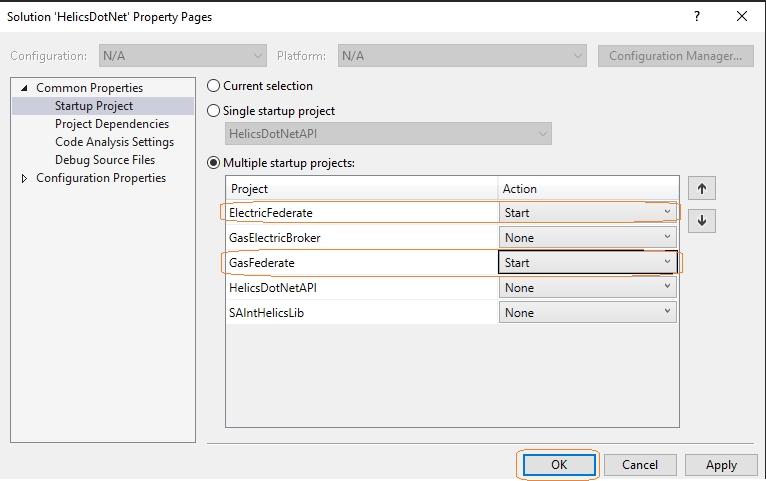
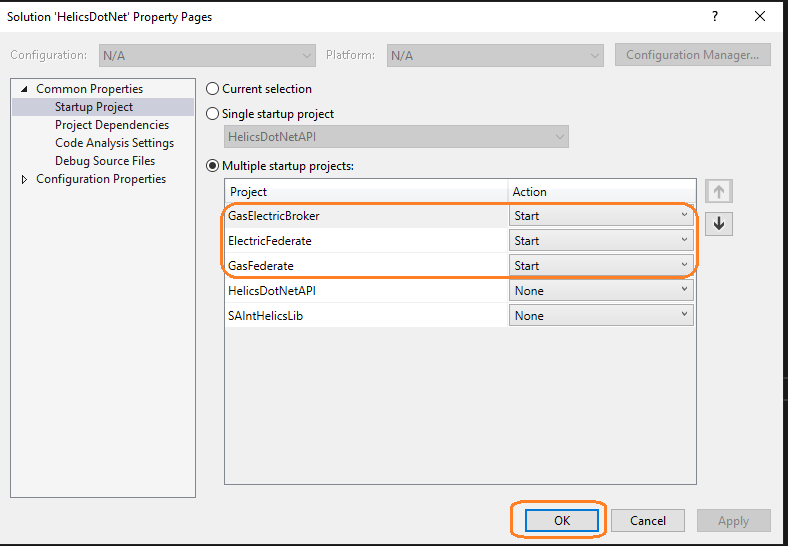
Minor edit on the readme file

Changed region(s): [[0.0, 0.0, 1.0, 1.0], [0.0, 0.9044, 0.2402, 0.9356], [0.9008, 0.0, 0.9308, 0.0312]]

diff --git a/README.md b/README.md
@@ -27,11 +27,11 @@ This user guide describes the steps for setting up and running the *SAInt_HELICS
   2. Double click *HelicsDotNet.sln* to open the project in the *Solution Explorer*.
 
   3. There are five projects embedded in the *HelicsDotNet* project.
-     - *ElectricFederate* loads the electric network, imports the corresponding scenario definitions and run the simulation.
-     - *GasFederate* loads the gas network, imports the corresponding scenario definitions and run the simulation.
-     - *HelicsDotNetAPI* provides the API functionality required for the co-simulation *HELICS* environment.
-     - *SAIntHelicsLib* provides the mapping factory for the coupling technologies. It allows the electric and gas federates to communicate.
-
+      - *ElectricFederate* loads the electric network, imports the corresponding scenario definitions, and runs the simulation.
+     - *GasFederate* loads the gas network, imports the corresponding scenario definitions, and run the simulation.
+     - *GasElectricBroker* serves as a broker (connection platform) for the gas and electric federates so that time synchronization and data communication channels are established. Each federate has to be connected to the broker. They must also register their publication and subscription parameters.
+     - *HelicsDotNetAPI* provides the API functionality required for the *HELICS* co-simulation environment.
+     - *SAIntHelicsLib* provides the mapping factory for the coupling technologies. It has functions that are used to process the data communicated between the federates.
 #### Set the project configuration as a multiple startups
   1. At the top of the *Solution Explorer* right click on the *Solution 'HelicsDotNet'* and open *Set StartUP Projects* as shown in Figure 1. 
     
